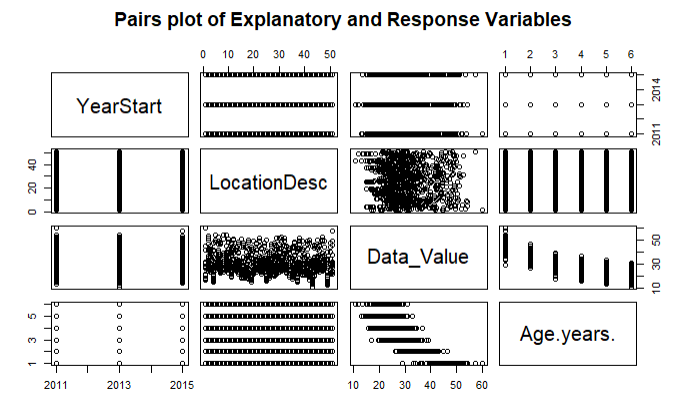
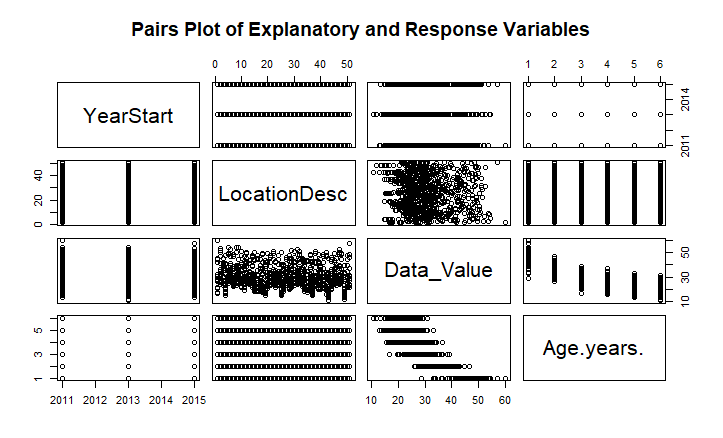
final edit

diff --git a/README.md b/README.md
@@ -1,4 +1,4 @@
-# Regression Analysis of CDC Guidelines on muscle-strengthening Activity
+# Regression Analysis of CDC Guidelines on Muscle-Strengthening Activity
 Authors: Kevin He, Ash Dubal, Jason Gill
 ## Table of Contents
  - [Abstract](https://github.com/kaishuun/CDC-Physical-Activity-Regression-Analysis#abstract)
@@ -20,19 +20,21 @@ Authors: Kevin He, Ash Dubal, Jason Gill
 
 
 ## Abstract
-Adult obesity has been a long and growing issue in the United States (US) with some calling it an "obesity epidemic". The US Centers for Disease Control and Prevention (CDC) publishes guidelines on both the amount of moderate intensive activities and muscle-strengthening activities required for adults to mitigate the risks associated with obesity. In this analysis, we investigate the effects of year, state/district of residence, and age on the proportion of adults that satisfy CDC guidelines on muscle-strengthening activity. We performed an exploratory analysis to visualize the distribution of the data, conducted modelling using ordinary least squares and stepwise regression with 10-fold cross-validation for model selection, and carried out residual analysis. An ordinary least squares model was developed that explained 88% of the variability, and all three factors of interest were shown to be statistically significant.
+Adult obesity has been a long and growing issue in the United States (US) with some calling it an "obesity epidemic". The US Centers for Disease Control and Prevention (CDC) publishes guidelines on both the amount of moderate intensive activity and muscle-strengthening activity required for adults to mitigate the risks associated with obesity. In this analysis, we investigate the effects of year, state/district of residence, and age on the proportion of adults that satisfy CDC guidelines on muscle-strengthening activity. We performed an exploratory analysis to visualize the distribution of the data, conducted modelling using ordinary least squares and stepwise regression with 10-fold cross-validation for model selection, and carried out residual analysis. An ordinary least squares model was developed that explained 88% of the variability, and all three factors of interest were shown to be statistically significant.
 
 
 ## Introduction
 
-The CDC in the US recommends that adults need at minimum 150 minutes of aerobic activity and at least two days of muscle-strengthening activities per week, but only 1 in 4 adults in the US and 1 in 5 high school students satisfy this recommendation. With obesity being a growing public health issue in the US, it is more than critical that Americans meet these recommendations by the CDC, as there are harmful effects associated with not getting enough physical activity. These effects include being at a higher likelihood of developing high blood pressure, high blood cholesterol, type 2 diabetes, heart disease, and cancer; while the benefits vastly improve quality of life with improved sleep, cognitive ability, musculoskeletal health, and a reduced risk of dementia. Using the nutrition data provided by the CDC, our study population are adults over the age of 18, and we are assuming independence for the collected data. We focus our study to investigate the proportion of adults that satisfies CDC guidelines on muscle-strengthening activity, as see if the year, age, and state/district of residence are important variables to the topic at hand. Due to the long name of `proportion of adults that satisfies CDC guidelines on muscle-strengthening activity`, in our plots, we refer to this study question simply as `proportion`. Since the data collected for this study only include the years 2011, 2013, and 2015, we are also interested to see if there has been a change in proportions of adults engaging in muscle-strengthening activities over the years. In this study, we will investigate and determine what factors contribute to satisfying the muscle-strengthening guidelines by the CDC, and see how the different variables are related.
+The CDC in the US recommends that adults need at minimum 150 minutes of aerobic activity and at least two days of muscle-strengthening activity per week, but only 1 in 4 adults in the US and 1 in 5 high school students satisfy this recommendation. With obesity being a growing public health issue in the US, it is more than critical that Americans meet these recommendations by the CDC, as there are harmful effects associated with not getting enough physical activity. These effects include being at a higher likelihood of developing high blood pressure, high blood cholesterol, type 2 diabetes, heart disease, and cancer; while the benefits vastly improve quality of life with improved sleep, cognitive ability, musculoskeletal health, and a reduced risk of dementia.
+
+Using the nutrition data provided by the CDC, we investigate the proportion of adults that satisfy CDC guidelines on muscle-strengthening activity, and see if the year, age, and state/district of residence linearly affect the topic at hand. Since the data collected for this study only include the years 2011, 2013, and 2015, we are also interested to see if there has been a change in proportions of adults engaging in muscle-strengthening activity over the years. In this study, we will investigate and determine what factors contribute to satisfying the muscle-strengthening guidelines by the CDC, and see how the different variables are related.
 
 ## Data Cleaning & Description
 
 #### Data Cleaning
 The nutrition data consists of multiple different survey results investigating the different socio-economic factors and their effects on a multitude of survey questions. The survey is set up so that only one measure of socio-economic status is recorded for each question.
 
-We begin cleaning the data set by removing all redundant variables, footnotes, confidence intervals, and sample sizes for each survey. Furthermore, we see that there is no difference between the start and the end year of the survey, so we remove the end year. Finally, we filter the data set to surveys that include our question of interest: the proportion of adults who engage in muscle-strengthening activities on two or more days a week. As well, we narrow our focus to only US states and districts since not enough data was available from US territories.
+We begin cleaning the data set by removing all redundant variables, footnotes, confidence intervals, and sample sizes for each survey. Furthermore, we see that there is no difference between the start and the end year of the surveys, so we remove the end year. Finally, we filter the data set to surveys that include our question of interest: the proportion of adults who engage in muscle-strengthening activity on two or more days a week. As well, we narrow our focus to only US states and districts since not enough data was available for US territories.
 
 After we cleaned and filtered our data, we are left with four variables.
 
@@ -41,7 +43,7 @@ After we cleaned and filtered our data, we are left with four variables.
 |Data_Value| The proportion of adults that satisfy CDC guidelines on muscle-strengthening activity|
 |YearStart| The year the survey was conducted |
 | LocationDesc | Names of the 50 US states and the District of Columbia |
-|Age.years. | Age grouped into 6 categories: (18-24), (25-34), (35-44), (45-54), (55-64), (65+) |
+|Age.years. | Age grouped into 6 factors: (18-24), (25-34), (35-44), (45-54), (55-64), (65+) |
 
 Where we are trying to predict Data_Value using year, state/district, and age.
 
@@ -50,7 +52,7 @@ Before we begin our exploratory analysis, we introduce the data point (YearStart
 #### Data Distribution
 ![](https://res.cloudinary.com/kevinhe/image/upload/v1607295476/STAT%20350%20Project/distribution_aoi6bn.png)
 
-We start by analyzing the distribution of each variable left after cleaning the data. From the above bar charts, it is clear that the surveys are evenly distributed throughout the years, state/district, and age, except for the year `2011`, the state of `Alabama`, and the age group `18 - 24`, as they all have one additional count due to the newly introduced data point. As well, when looking at the density of the proportion of adults that satisfy CDC recommendations for muscle-strengthening activities, it is generally right-skewed and has a large peak that is slightly above 25 and a smaller spike around 43, potentially suggesting a bimodal distribution.
+We start by analyzing the distribution of each variable left after cleaning the data. Due to the long name of `proportion of adults that satisfies CDC guidelines on muscle-strengthening activity`, in our plots, we refer to this study question simply as `proportion`. From the above bar charts, it is clear that the surveys are evenly distributed throughout the years, state/district, and age, except for the year `2011`, the state of `Alabama`, and the age group `18 - 24`, as they all have one additional count due to the newly introduced data point. As well, when looking at the density of the proportion of adults that satisfy CDC recommendations for muscle-strengthening activity, it is generally right-skewed and has a large peak that is slightly above 25 and a smaller spike around 43.
 
 #### Exploratory Analysis
 We now investigate the relationship between each explanatory variable with the response variable.
@@ -60,15 +62,15 @@ We now investigate the relationship between each explanatory variable with the r
 
 We start by exploring the change in the proportion of adults that satisfy CDC guidelines for muscle-strengthening activity throughout the years of the study. Each year has a similar IQR with the distribution slightly increasing as the years advance, which implies a linear relationship. The new point is an extreme outlier for the 2011 boxplot.
 
-When we compare the age groups to the proportion of adults that satisfy CDC guidelines for muscle-strengthening activity, the relationship becomes clear. We see a negative linear relationship showing that younger adults are more likely to engage in muscle-strengthening activities in comparison to older adults/seniors. An interesting observation with this boxplot is that the majority of outlier points have a very low proportion value, suggesting that there are states/districts where very few adults are getting the muscle-strengthening activity that they need.
+When we compare the age groups to the proportion of adults that satisfy CDC guidelines for muscle-strengthening activity, the relationship becomes clear. We see a negative linear relationship showing that younger adults are more likely to engage in muscle-strengthening activity in comparison to older adults/seniors. An interesting observation with this boxplot is that the majority of outlier points have a very low proportion value, suggesting that there are states/districts where very few adults are getting the muscle-strengthening activity that they need.
 
-We then compare to see if there is a difference in proportion by state/district. This boxplot is arranged by increasing medians and there is clear evidence that the proportions are different by state, as the IQR for West Virginia and Colorado has no overlapping values. West Virginia has the lowest median proportion being just under 20, while Colorado has the highest median value being over 30. To visualize this clearer, we have also produced a heat map of the proportion by state/district below.
+We then compare to see if there is a difference in proportion by state/district. This boxplot is arranged by increasing medians and there is clear evidence that the proportions are different by state, as the IQR for West Virginia and Colorado has no overlapping values. West Virginia has the lowest median proportion being just under 20, while Colorado has the highest median value being over 30. To visualize this clearer, we have also produced a heat map of the proportions by state/district below.
 
 ![](https://res.cloudinary.com/kevinhe/image/upload/v1607311266/STAT%20350%20Project/heatmap_ty7bkv.png)
 
-![](https://res.cloudinary.com/kevinhe/image/upload/v1607296017/STAT%20350%20Project/pairs_gu3gou.png)
+![](https://res.cloudinary.com/kevinhe/image/upload/v1607488135/STAT%20350%20Project/pairs_ejnjul.png)
 
-Lastly, we look at the pairs plot to check for relationships between each variable. When looking at plots between explanatory variables, there is not a linear relationship as the data appears to be uniform. When comparing each explanatory variable to Data_Value, we see a clear linear relationship with Age.years. and a slight linear relationship with YearStart. The pairs plot of LocationDesc is harder to interpret, but it is evident that Data_Value changes by state/district.
+Lastly, we look at the pairs plot to check for relationships between each variable. When looking at plots between explanatory variables, there is not a linear relationship as the data appears to be uniform. When comparing each explanatory variable to Data_Value, we see a clear linear relationship with Age.years. and a slight linear relationship with YearStart. The plot for LocationDesc and Data_Value is harder to interpret, but it is evident that Data_Value changes by state/district as the range in Data_Value shifts for each level in LocationDesc.
 
 ## Methods
 
@@ -76,7 +78,7 @@ Before we build our regression models, we first split the data into a 80/20 trai
 
 #### Hypothesis Testing and Model Comparison
 
-We want to know if the slopes of the regression line depend on the different factor levels of age groups and state/district, given the intercept remains constant. We train a linear regression model with no interaction terms on the training data, as well as create models with interaction terms on age groups, state/district, and both age groups and state/district also using the training data. The result of our hypothesis test suggests that the slopes are dependent on both the different levels of age groups and state/district at alpha = 0.05. The models used for these tests and the p-value for each test is reported below.
+We want to know if the slopes of the regression line depend on the different factor levels of age group and state/district, given the intercept remains constant. We train a linear regression model with no interaction terms on the training data, as well as create models with interaction terms on age group, state/district, and both age group and state/district also using the training data. The result of our hypothesis test suggests that the slopes are dependent on both the different levels of age group and state/district at alpha = 0.05. The models used for these tests and the p-value for each test is reported below.
 
 |Model| Description|
 |-----|------------|
@@ -116,7 +118,7 @@ Although we have completed hypothesis testing and model selection on the trainin
   - Data_Value ~ YearStart + Age.years + Location Desc + YearStart:Age.years
 - linear regression with interaction term `YearStart:LocationDesc`
   - Data_Value ~ YearStart + Age.years + Location Desc + YearStart:LocationDesc
-- linear regression with both interaction terms on `YearStart:LocationDesc` and `YearStart:Age.years`
+- linear regression with both interaction terms  `YearStart:LocationDesc` and `YearStart:Age.years`
   - Data_Value ~ YearStart + Age.years + Location Desc + YearStart:Age.years + YearStart:LocationDesc
 
 For each one of the models listed above, we also perform stepwise variable selection for a total of 8 models.
@@ -127,11 +129,11 @@ For each one of the models listed above, we also perform stepwise variable selec
 
 With the R^2 and the root-MSPE saved from the 10-fold cross-validation results, we create boxplots to compare the models.
 
-![](https://res.cloudinary.com/kevinhe/image/upload/v1607215843/STAT%20350%20Project/MSPE_fiwkkl.png)
+![](https://res.cloudinary.com/kevinhe/image/upload/v1607488135/STAT%20350%20Project/MSPE_wsvya3.png)
 
-From the left boxplot containing root-MSPE values, it is evident that none of the stepwise regression models performed as well as the linear regression models as they have the largest root-MSPE values. When comparing the linear regression models, the model with no interaction terms performs the best as it has one of the lowest median root-MSPE values and a low boxplot range. The model with the interaction on age groups follows closely behind, but it has the highest median root-MSPE value out of the linear regression models.
+From the left boxplot containing the root-MSPE values, it is evident that none of the stepwise regression models performed as well as the linear regression models as they have the largest root-MSPE values. When comparing the linear regression models, the model with no interaction terms performs the best as it has one of the lowest median root-MSPE values and a low boxplot range. The model with the interaction on age group follows closely behind, but it has the highest median root-MSPE value out of the linear regression models.
 
-We also produced boxplots for the R^2 value for each fold of all models. The two best models are the linear regression model with no interaction terms and the linear regression model with interaction on age groups. They both have around the same median R^2 value and IQR, but we select the model without interaction terms as it does not have long boxplot whiskers and it is a simpler model.
+We also produced boxplots for the R^2 value from the cross-validation results. The two best models are the linear regression model with no interaction terms and the linear regression model with interaction on age group. They both have around the same median R^2 value and IQR, but we select the model without interaction terms as it does not have long boxplot whiskers and it is a simpler model.
 
 
 Finally, we see how each model performs on new data, specifically our test data set. We get the following results:
@@ -147,9 +149,9 @@ Finally, we see how each model performs on new data, specifically our test data 
 |Stepwise Regression - LocationDesc Interaction |  27.18744  |
 |Stepwise Regression - Age Group and LocationDesc Interaction |27.18744 |
 
-As expected from the cross-validation results, the linear regression model with no interaction terms performs the best with the linear regression model with a interaction on age groups being close behind. This result contradicts the conclusion of our hypothesis tests to see if the slopes depended on the different levels of LocationDesc and Age.years., but is backed up by our original model comparison using AIC, as it has one of the top AIC values. This discrepancy could be explained by the bias-variance tradeoff that we briefly touched on before, as although we have 735 observations in our training data, we also have 51 levels in the LocationDesc variable and 6 levels in the Age.years. variable; so in actuality, when we create interaction terms, we have to estimate the coefficients for 306 additional variables, which decreases the bias of the model as we have a more flexible model, but in turn, our variance increases, making our models more variable.
+As expected from the cross-validation results, the linear regression model with no interaction terms performs the best with the linear regression model with a interaction on age group being close behind. This result contradicts the conclusion of our hypothesis tests to see if the slopes depended on the different levels of LocationDesc and Age.years., but is backed up by our original model comparison using AIC, as it has one of the best AIC values. This discrepancy could be explained by the bias-variance tradeoff that we briefly touched on before, as although we have 735 observations in our training data, we also have 51 levels in the LocationDesc variable and 6 levels in the Age.years. variable; so in actuality, when we create interaction terms, we have to estimate the coefficients for 306 additional regressors, which decreases the bias of the model as we have a more flexible model, but in turn, our variance increases drastically, making our models more variable.
 
-From both cross-validation and the test data results, we select the linear regression model with no interaction terms to be our best model. We also include a plot of the predicted vs observed value from our final model.
+From both the cross-validation and the test data results, we select the linear regression model with no interaction terms to be our best model. We also include a plot of the predicted vs observed values from our final model.
 
 ![](https://res.cloudinary.com/kevinhe/image/upload/v1607372154/STAT%20350%20Project/predicted_zpiswp.png)
 
@@ -159,7 +161,7 @@ From this we're able to see that the predicted results are all scattered evenly 
 #### Residual Analysis
 Our final task in this analysis is to ensure that our final model satisfies the assumptions for linear regression.
 
-We first see if there is a linear relationship between at least one of the explanatory variables to the response by running a summary of the model. The resulting p-value from the significance of linear regression test is < 2.2e-16 ,using alpha = 0.05, we conclude that the response is linearly related to at least one of the explanatory variables.
+We first see if there is a linear relationship between at least one of the explanatory variables to the response by running a summary of the model. The resulting p-value from the significance of linear regression test is < 2.2e-16. Using alpha = 0.05, we conclude that the response is linearly related to at least one of the explanatory variables.
 
 We now perform analysis on the residuals.
 ![](https://res.cloudinary.com/kevinhe/image/upload/v1607216516/STAT%20350%20Project/residuals_aiqgwj.png)
@@ -170,14 +172,14 @@ The Normal Q-Q plot, for the majority, follows a straight line with very few poi
 
 For the standardized residuals vs leverage plot, the points for leverage are scattered evenly around the same area with no points having a large leverage. As well, there exists a couple of points with standardized residuals beyond +/- 3, but since they do not have a high leverage point, they are not considered to be influential.
 
-To double check that we do not have any influential points we use both Cook's Distance and diag(H) with standardized residuals, of which no influential points were identified.
+To double check that we do not have any influential points we use both Cook's Distance and diag(H) with standardized residuals, of which no points were identified.
 
 Lastly, we use the variance inflation factor to see if there exists an issue with multicollinearity in the model, and since all the values are around 1, we conclude that there are no issues.
 
 ## Conclusion
-  Overall, our final model, the linear regression model with no interaction terms, has an R^2 value of 0.8891376 which performs great given the number of variables that were filtered from the data set. Running one last summary on our chosen model we are able to answer the questions posed in the beginning of the analysis. We first see that as the year increases there has been an improvement in the proportion of adults that satisfies CDC guideline on muscle-strengthening activity, although this change is quite marginal with a 0.38% increase per year from 2013 to 2015; this variable also poses as a limitation in our model which will be discussed later on. As well, we can see from the model that younger age groups are more likely to satisfy CDC guidelines on muscle-strengthening activity, with about a 3% decrease in proportion as age increases. Finally, we are able to conclude that the likelihood of satisfying CDC guidelines on muscle-strengthening activity depends on the state/district of residence with states such as Hawaii, Alaska, Virginia, and Colorado having some of the largest increases for the intercept of the model, which is consistent with our exploratory analysis.
+  Overall, our final model, the linear regression model with no interaction terms, has an R^2 value of 0.8891376 which performs great given the number of variables that were filtered from the data set. Running one last summary on our chosen model we are able to answer the questions posed in the beginning of the analysis. We first see that as the year increases, there has been an improvement in the proportion of adults that satisfies CDC guideline on muscle-strengthening activity, although this change is quite marginal with a 0.38% increase per year from 2013 to 2015; this variable also poses as a limitation in our model which will be discussed later on. As well, we can see from the model that younger age groups are more likely to satisfy CDC guidelines on muscle-strengthening activity, with about a 3% decrease in proportion when moving up an age group. Finally, we are able to conclude that the likelihood of satisfying CDC guidelines on muscle-strengthening activity depends on the state/district of residence with states such as Hawaii, Alaska, Virginia, and Colorado having some of the largest increases for the intercept of the model, which is consistent with our exploratory analysis.
 
-  Some of the limitations of this study include having YearStart as one of the variables in our model as we do not know if the upwards trend will continuously be linear or if the increase will slow down as time goes on, forcing us to extrapolate for predictions outside of the year range 2013 - 2015. Moreover, including 51 levels of state/district and 6 levels of age groups impacts our model as we have to fit a coefficient for each level which increases model complexity. In future studies, state/district could be grouped into the 9 census regions or into Democratic and Republican controlled state/district to reduce their model complexity and to investigate further questions related to the data.
+  Some of the limitations of this study include having YearStart as one of the variables in our model as we do not know if the upwards trend will continuously be linear or if the increase will slow down as time goes on, forcing us to extrapolate for predictions outside of the year range 2013 - 2015. Moreover, including 51 levels of state/district and 6 levels of age group impacts our model as we have to fit a coefficient for each level which increases model complexity. In future studies, state/district could be grouped into the 9 census regions or into Democratic and Republican controlled state/district to reduce their model complexity and to investigate further questions related to the data.
 
 ## References
 - [Physical Activit Recommendations for Different Age Groups - CDC](https://www.cdc.gov/physicalactivity/basics/age-chart.html)
